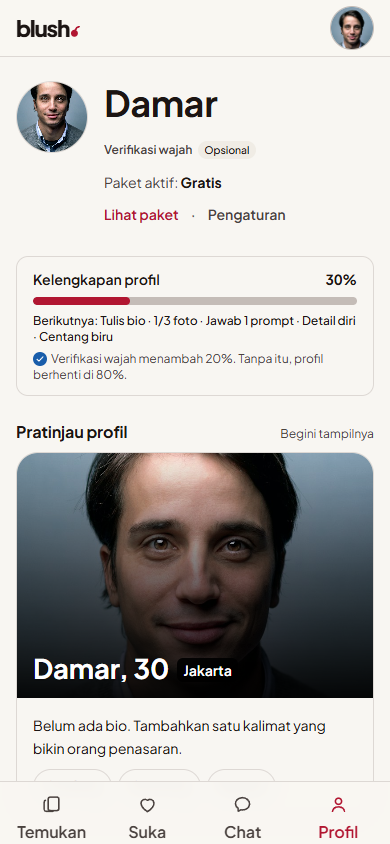
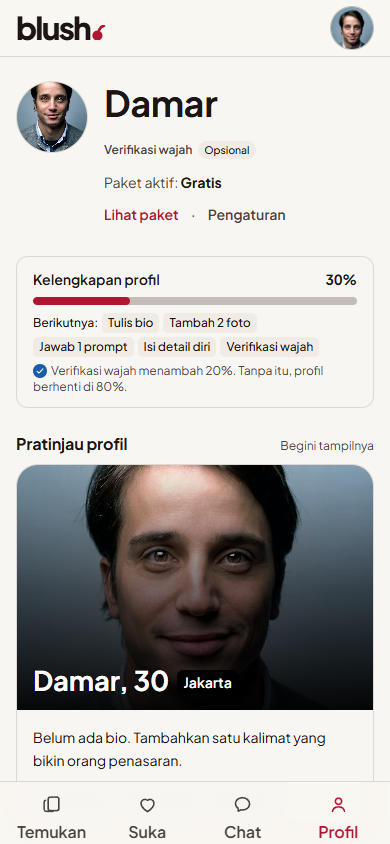
Rapikan tumpukan kartu hero, status kelengkapan, dan pengukur kontras

Changed region(s): [[0.0308, 0.3697, 0.9538, 0.9242], [0.0308, 0.0, 0.2769, 0.0616]]

diff --git a/src/app/page.tsx b/src/app/page.tsx
@@ -20,14 +20,7 @@ function Tab({ name, label, active = false }: { name: IconName; label: string; a
 function DeckPreview() {
   return (
     <div className="relative isolate mx-auto w-full max-w-[14.5rem] sm:max-w-[20rem]">
-      <div className="absolute inset-0 -z-10 -rotate-6 -translate-x-4 translate-y-2 overflow-hidden rounded-[20px] border border-line bg-paper-2 shadow-[0_18px_40px_-30px_oklch(0.3_0.05_40)]" aria-hidden="true">
-        {/* eslint-disable-next-line @next/next/no-img-element */}
-        <img src="/demo/nadia.jpg" alt="" className="h-full w-full object-cover object-[center_38%]" />
-      </div>
-      <div className="absolute inset-0 -z-10 rotate-[5deg] translate-x-4 translate-y-1 overflow-hidden rounded-[20px] border border-line bg-paper-2 shadow-[0_18px_40px_-30px_oklch(0.3_0.05_40)]" aria-hidden="true">
-        {/* eslint-disable-next-line @next/next/no-img-element */}
-        <img src="/demo/damar.png" alt="" className="h-full w-full object-cover object-[center_30%]" />
-      </div>
+      <div className="absolute inset-0 -z-10 -rotate-3 -translate-y-2 rounded-[20px] border border-line bg-paper-3 shadow-[0_18px_40px_-30px_oklch(0.3_0.05_40)]" aria-hidden="true" />
 
       <div className="relative z-10 overflow-hidden rounded-[20px] border border-line bg-paper shadow-[0_28px_60px_-32px_oklch(0.3_0.05_40)]">
         <div className="relative aspect-[4/5] w-full overflow-hidden bg-paper-2 sm:aspect-[3/4]">
@@ -104,7 +97,7 @@ export default function Home() {
         </Link>
       </header>
 
-      <div className="mx-auto grid max-w-4xl gap-4 px-4 pb-[calc(1.5rem+env(safe-area-inset-bottom))] pt-1 md:min-h-[calc(100dvh-3.5rem)] md:grid-cols-[1fr_auto] md:items-center md:gap-10 md:pb-10">
+      <div className="mx-auto grid max-w-4xl gap-5 px-4 pb-[calc(1.5rem+env(safe-area-inset-bottom))] pt-1 md:min-h-[calc(100dvh-3.5rem)] md:grid-cols-[1fr_auto] md:items-center md:gap-10 md:pb-10">
         <div className="min-w-0 md:max-w-[24rem]">
           <h1 className="text-pretty text-[2.15rem] font-bold leading-[1.02] tracking-[-0.035em] sm:text-[3.1rem]">
             Cari yang{" "}
